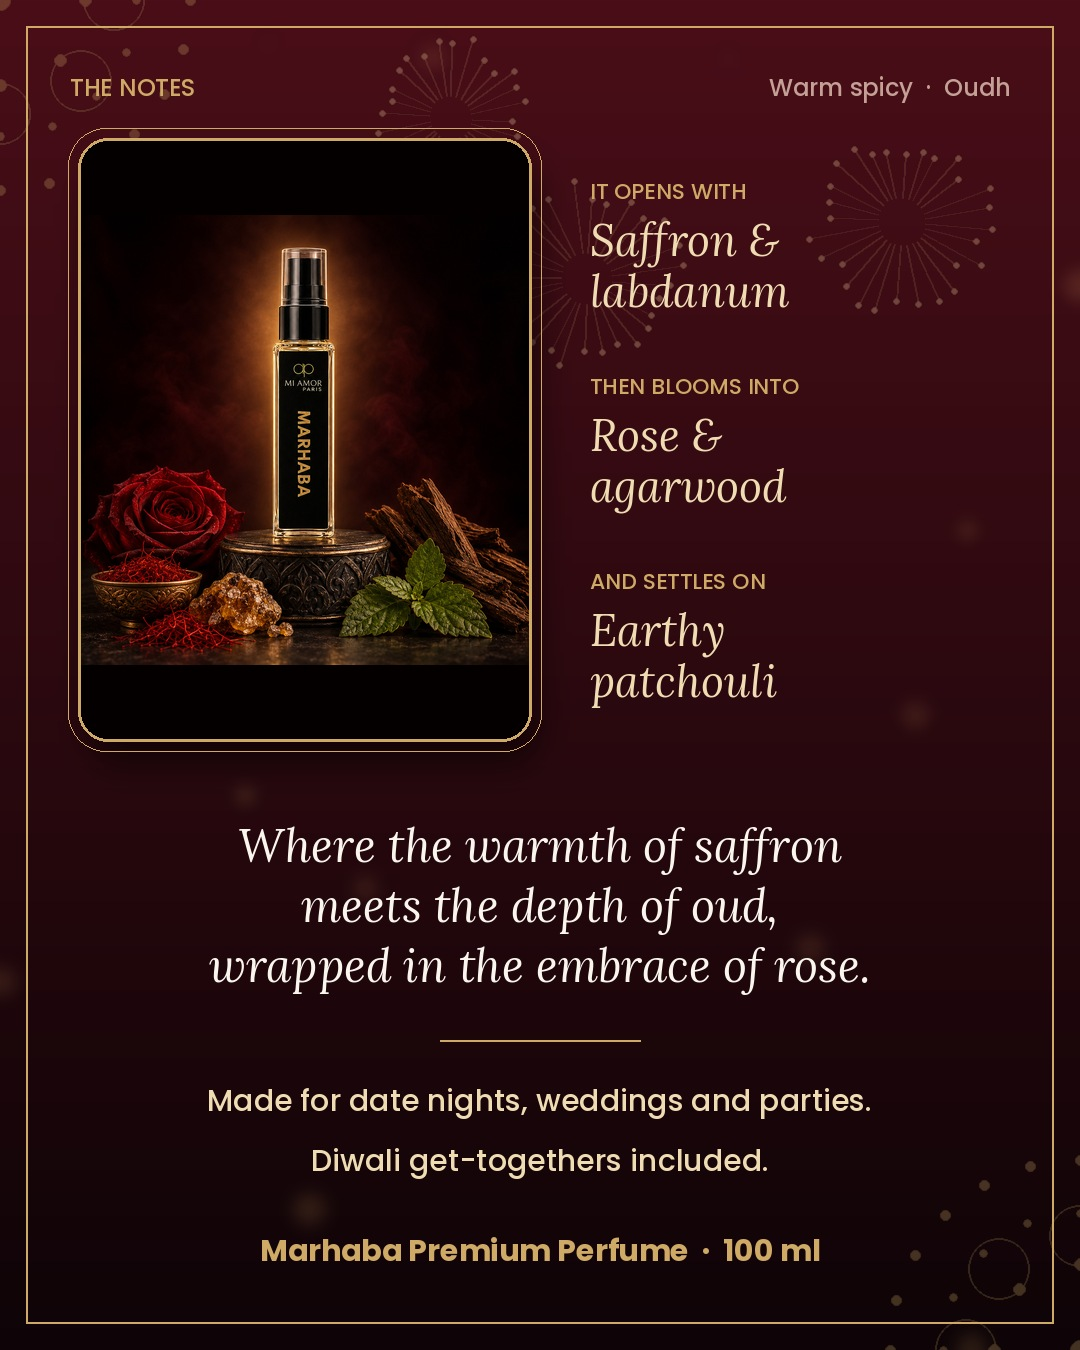
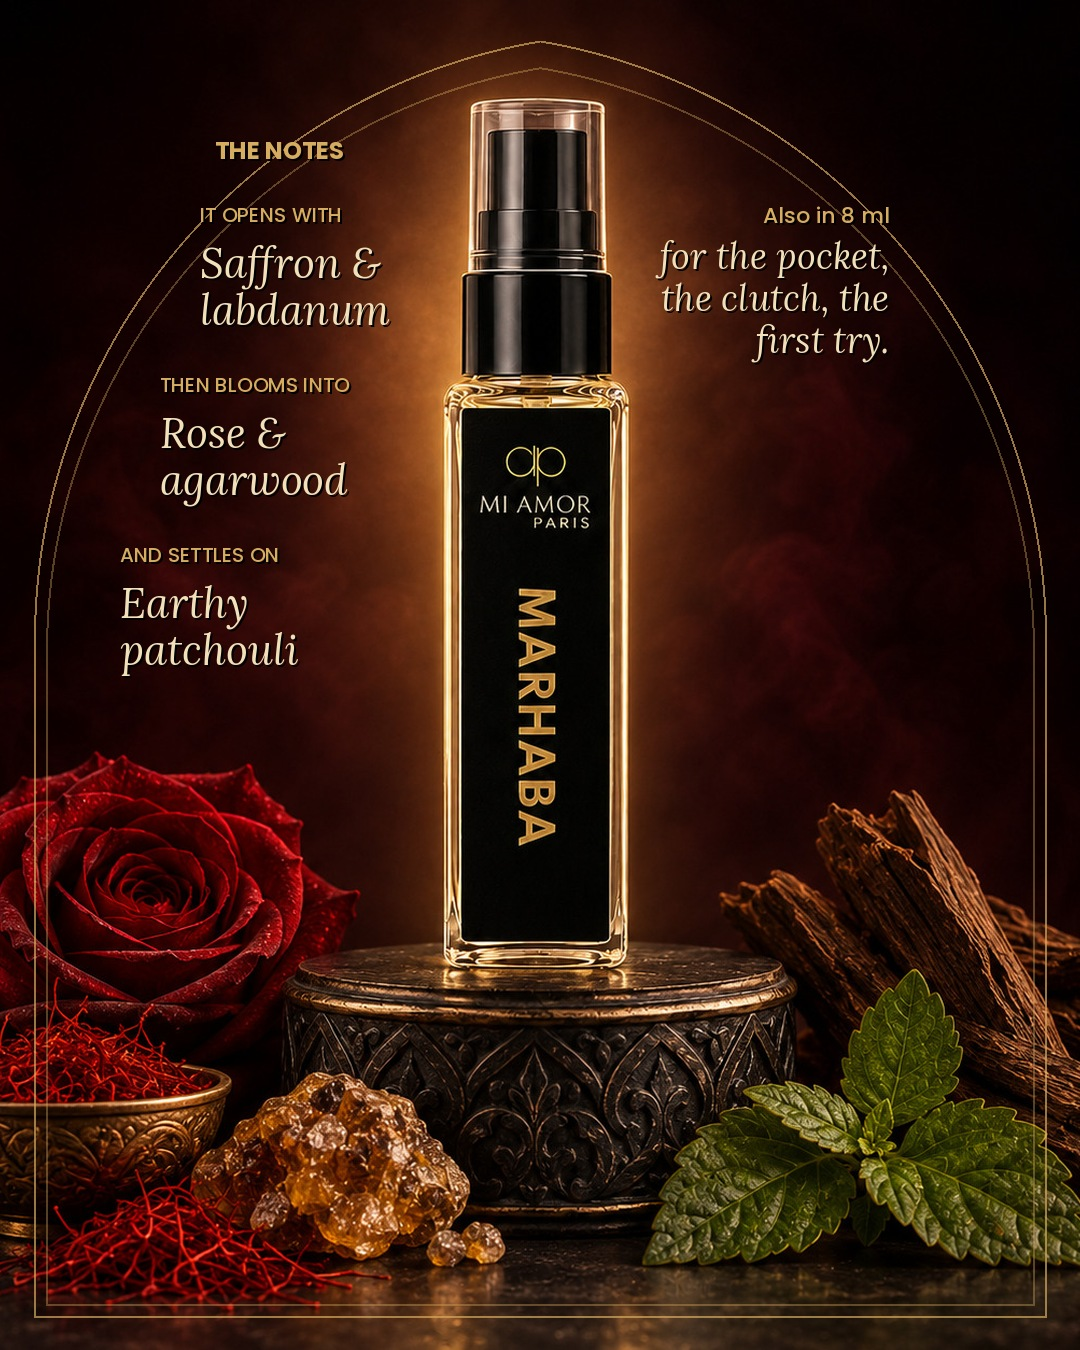
Marhaba post rebuilt: Arabian nights theme, unisex, no white backgrounds, adds Oudh moisturizer (Tannay, 3 Nov)
Claude-Session: https://claude.ai/code/session_01QfcZgk1TCxQfFsu6yjKqLd

diff --git a/posts/2026-11-03-marhaba-edit/build.py b/posts/2026-11-03-marhaba-edit/build.py
@@ -1,134 +1,117 @@
-"""3 Nov 2026 feed: "Marhaba, the Diwali-party scent for him" (perfume 100 ml, Oudh shower gel, 8 ml mini).
-Look: deep wine-to-black, gold dot-rangoli medallions in the corners and soft gold firework bursts
-(new vs. the emerald jaali of 2 Nov). Real Drive photos, shown whole inside gold-framed panels.
-Notes and benefit words come from the Shopify listings. Prices removed 3 Nov (Tannay): last slide says "DM for prices & Diwali deals"."""
-import math, random
-from PIL import Image, ImageDraw, ImageFont, ImageFilter
-W, H = 1080, 1350
+"""3 Nov 2026 feed (rebuilt per Tannay): "Marhaba · Arabian nights, bottled". Unisex, Arabian-nights mood, no prices,
+no white-background shots. Set = the real Marhaba photoshoot (rose, saffron, labdanum resin, agarwood, patchouli leaf,
+engraved brass podium; mini_life_1.jpg). The 8 ml is taken off the podium (work/make_scene.py) and the real 100 ml bottle,
+box, Oudh cream and 8 ml are cut from their studio shots (work/cutout.py) and stood on it with backlight, contact shadow
+and brass reflection. Shower gel uses its own real dark lifestyle photo. Last slide: DM for prices & Diwali deals."""
+import numpy as np
+from PIL import Image, ImageDraw, ImageFont, ImageFilter, ImageOps
+W, H = 1080, 1350; BASE = 966
 def lora(s, it=False): return ImageFont.truetype("/usr/share/fonts/truetype/google-fonts/Lora-" + ("Italic-Variable" if it else "Variable") + ".ttf", s)
 def pop(s, w="Medium"): return ImageFont.truetype(f"/usr/share/fonts/truetype/google-fonts/Poppins-{w}.ttf", s)
-WINE = (74, 14, 24); BLK = (14, 4, 7); GOLD = (206, 170, 102); CHAMP = (240, 220, 178); IVORY = (250, 246, 238); MUTE = (196, 160, 150)
+GOLD = (214, 172, 96); CHAMP = (242, 224, 186); MUTE = (205, 170, 140)
 LOGO = Image.open("../../assets/cutouts/logo_gold.png").convert("RGBA")
-P_PERF, W_PERF = "₹1,499", "₹2,999"
-P_GEL, W_GEL = "₹749", "₹1,499"
-P_MINI, W_MINI = "₹199", "₹399"
 
-def c(d, y, s, f, col): d.text((W / 2, y), s, font=f, fill=col, anchor="mm")
+def scene(mirror=False):
+    s = Image.open("work/scene_clean.png").convert("RGB")
+    if mirror: s = ImageOps.mirror(s)
+    return s.resize((1350, 1350), Image.LANCZOS).crop((135, 0, 1215, 1350)).convert("RGBA")
 
-def logo(im, w, y, col=GOLD):
-    l = LOGO.resize((w, int(LOGO.height * w / LOGO.width)), Image.LANCZOS)
-    a = l.split()[3].point(lambda v: 0 if v < 90 else min(255, int((v - 90) * 2.2))); s = Image.new("RGBA", l.size, col + (0,)); s.putalpha(a)
+def backlight(im, cx, cy, rx, ry, a=150):
+    g = Image.new("RGBA", (W, H)); d = ImageDraw.Draw(g)
+    d.ellipse((cx - rx, cy - ry, cx + rx, cy + ry), fill=(255, 150, 60, a))
+    im.alpha_composite(g.filter(ImageFilter.GaussianBlur(rx * 0.55)))
+
+def prep(path, h, glass):
+    p = Image.open(path).convert("RGBA"); w = int(p.width * h / p.height); p = p.resize((w, h), Image.LANCZOS)
+    a = np.array(p).astype(np.float32); a[..., :3] *= 0.86; a[..., 0] *= 1.06; a[..., 2] *= 0.86   # warm, dimmer set light
+    from scipy import ndimage
+    a[..., 3] = ndimage.grey_erosion(a[..., 3], size=(3, 3)); a[h - 3:, :, 3] = 0
+    if glass:  # smooth the glass silhouette (studio JPEG edges are ragged)
+        import cv2
+        m = cv2.GaussianBlur((a[..., 3] > 128).astype(np.float32), (0, 0), 3.5) > 0.5
+        m = ndimage.binary_erosion(m, iterations=2); a[..., 3] = cv2.GaussianBlur(m.astype(np.float32), (0, 0), 1.0) * 255
+    return a, w, glass
+
+def place(im, path, cx, h, base=BASE, glass=False):
+    a, w, glass = prep(path, h, glass); x, y = int(cx - w / 2), base - h
+    sh = Image.new("RGBA", (W, H)); d = ImageDraw.Draw(sh)
+    d.ellipse((x - 6, base - 12, x + w + 6, base + 10), fill=(0, 0, 0, 170)); d.ellipse((x - 30, base - 22, x + w + 30, base + 18), fill=(0, 0, 0, 70))
+    im.alpha_composite(sh.filter(ImageFilter.GaussianBlur(8)))
+    r = a[::-1][:40].copy(); r[..., 3] *= np.linspace(0.18, 0, 40)[:, None]   # faint reflection on the polished brass top
+    im.alpha_composite(Image.fromarray(r.astype(np.uint8), "RGBA").filter(ImageFilter.GaussianBlur(1.5)), (x, base))
+    if glass:   # clear glass: multiply the near-white glass with the set behind it
+        import cv2
+        bg = np.array(im.crop((x, y, x + w, y + h))).astype(np.float32); g = cv2.GaussianBlur(a[..., :3] / 255, (0, 0), 2.5)
+        bg[..., :3] = cv2.GaussianBlur(bg[..., :3], (0, 0), 3)
+        sat = g.max(2) - g.min(2); wgt = (np.clip((g.mean(2) - 0.50) / 0.25, 0, 1) * np.clip((0.24 - sat) / 0.10, 0, 1))[..., None]
+        a[..., :3] = a[..., :3] * (1 - wgt) + bg[..., :3] * np.clip(g * 1.25, 0, 1.15) * wgt
+    im.alpha_composite(Image.fromarray(np.clip(a, 0, 255).astype(np.uint8), "RGBA"), (x, y))
+
+def arch(im, inset=34):
+    """thin double gold pointed (two-centred) arch frame, Arabian architecture, on every slide"""
+    import math
+    o = Image.new("RGBA", (W, H)); d = ImageDraw.Draw(o)
+    for k, al in [(0, 175), (12, 95)]:
+        l, r, b = inset + k, W - inset - k, H - inset - k; w = r - l; R = 0.6 * w; spring = 640 + k
+        h = math.sqrt(R * R - (R - w / 2) ** 2); ang = math.degrees(math.atan2(-h, -(R - w / 2))) % 360
+        d.arc((l, spring - R, l + 2 * R, spring + R), 180, ang, fill=GOLD + (al,), width=2)
+        d.arc((r - 2 * R, spring - R, r, spring + R), 540 - ang, 360, fill=GOLD + (al,), width=2)
+        d.line((l, spring, l, b, r, b, r, spring), fill=GOLD + (al,), width=2)
+    im.alpha_composite(o)
+
+def c(d, y, s, f, col, x=W / 2, anchor="mm"):
+    d.text((x + 2, y + 2), s, font=f, fill=(0, 0, 0, 160), anchor=anchor); d.text((x, y), s, font=f, fill=col, anchor=anchor)
+def logo(im, w, y):
+    l = LOGO.resize((w, int(LOGO.height * w / LOGO.width)), Image.LANCZOS); s = Image.new("RGBA", l.size, GOLD + (0,)); s.putalpha(l.split()[3])
     im.alpha_composite(s, ((W - w) // 2, y))
-
-def rangoli(d, cx, cy, r, a):
-    for ring, n, dot in [(r, 24, 5), (r * 0.72, 16, 4), (r * 0.45, 8, 6)]:
-        for k in range(n):
-            t = 2 * math.pi * k / n; x, y = cx + ring * math.cos(t), cy + ring * math.sin(t)
-            d.ellipse((x - dot, y - dot, x + dot, y + dot), fill=GOLD + (a,))
-    for k in range(8):  # petals
-        t = 2 * math.pi * k / 8; x, y = cx + r * 0.6 * math.cos(t), cy + r * 0.6 * math.sin(t)
-        d.ellipse((x - r * 0.16, y - r * 0.16, x + r * 0.16, y + r * 0.16), outline=GOLD + (a,), width=2)
-    d.ellipse((cx - 10, cy - 10, cx + 10, cy + 10), fill=GOLD + (a,))
-
-def burst(d, cx, cy, r, a, rnd):
-    for k in range(28):
-        t = 2 * math.pi * k / 28 + rnd.random() * 0.1; r0 = r * 0.25; r1 = r * (0.7 + rnd.random() * 0.3)
-        d.line((cx + r0 * math.cos(t), cy + r0 * math.sin(t), cx + r1 * math.cos(t), cy + r1 * math.sin(t)), fill=(255, 210, 140, a), width=2)
-        d.ellipse((cx + r1 * math.cos(t) - 3, cy + r1 * math.sin(t) - 3, cx + r1 * math.cos(t) + 3, cy + r1 * math.sin(t) + 3), fill=(255, 225, 170, a + 30))
-
-def base(seed):
-    im = Image.new("RGBA", (W, H)); d = ImageDraw.Draw(im)
-    for y in range(H):
-        for_t = y / H
-        d.line((0, y, W, y), fill=tuple(int(WINE[i] * (1 - for_t) + BLK[i] * for_t) for i in range(3)) + (255,))
-    rnd = random.Random(seed); fx = Image.new("RGBA", (W, H)); fd = ImageDraw.Draw(fx)
-    for cx, cy in [(0, 0), (W, H)]: rangoli(fd, cx, cy, 190, 70)
-    for _ in range(3): burst(fd, rnd.randint(120, W - 120), rnd.randint(80, 300), rnd.randint(60, 110), 40, rnd)
-    im.alpha_composite(fx.filter(ImageFilter.GaussianBlur(0.6)))
-    glow = Image.new("RGBA", (W, H)); gd = ImageDraw.Draw(glow)
-    for _ in range(16):
-        x, y, r = rnd.randint(0, W), rnd.randint(0, H), rnd.randint(8, 24)
-        gd.ellipse((x - r, y - r, x + r, y + r), fill=(255, 190, 110, rnd.randint(25, 60)))
-    im.alpha_composite(glow.filter(ImageFilter.GaussianBlur(10)))
-    d = ImageDraw.Draw(im); d.rectangle((26, 26, W - 27, H - 27), outline=GOLD + (160,), width=2)
-    return im
-
-def panel(im, photo, x, y, w, h, bg=None):
-    """whole photo fitted (contain) into a rounded gold-framed panel; empty space takes the photo's own corner colour."""
-    sh = Image.new("RGBA", (W, H)); ImageDraw.Draw(sh).rounded_rectangle((x + 8, y + 22, x + w + 8, y + h + 22), 30, fill=(0, 0, 0, 140))
-    im.alpha_composite(sh.filter(ImageFilter.GaussianBlur(16)))
-    p = Image.open(photo).convert("RGB"); s = min(w / p.width, h / p.height); p = p.resize((int(p.width * s), int(p.height * s)), Image.LANCZOS)
-    fill = bg or p.getpixel((4, 4)); pn = Image.new("RGB", (w, h), fill); pn.paste(p, ((w - p.width) // 2, (h - p.height) // 2))
-    m = Image.new("L", (w, h), 0); ImageDraw.Draw(m).rounded_rectangle((0, 0, w - 1, h - 1), 28, fill=255)
-    im.paste(pn, (x, y), m); d = ImageDraw.Draw(im)
-    d.rounded_rectangle((x - 2, y - 2, x + w + 1, y + h + 1), 30, outline=GOLD, width=3)
-    d.rounded_rectangle((x - 12, y - 12, x + w + 11, y + h + 11), 38, outline=GOLD + (110,), width=1)
-
-def price(d, y, now, was):
-    f1, f2 = pop(44, "Bold"), pop(30); a = d.textlength(now, font=f1); b = d.textlength(f"was {was}", font=f2); x = (W - a - 24 - b) / 2
-    d.text((x, y), now, font=f1, fill=GOLD, anchor="lm"); d.text((x + a + 24, y + 4), f"was {was}", font=f2, fill=MUTE, anchor="lm")
-    d.line((x + a + 24 + d.textlength("was ", font=f2), y + 6, x + a + 24 + b, y + 6), fill=MUTE, width=2)
+def bottom_shade(im, hgt=260, a=200):
+    v = Image.new("RGBA", (W, hgt)); vd = ImageDraw.Draw(v)
+    for y in range(hgt): vd.line((0, y, W, y), fill=(8, 3, 2, int(a * (y / hgt) ** 1.4)))
+    im.alpha_composite(v, (0, H - hgt))
 
 out = []
-# 1 cover: perfume + box, whole
-im = base(3); logo(im, 92, 62); d = ImageDraw.Draw(im)
-c(d, 200, "Marhaba", lora(92, True), CHAMP)
-c(d, 280, "The Diwali-party scent for him", lora(40), IVORY)
-panel(im, "perfume_main.jpg", 190, 350, 700, 700); d = ImageDraw.Draw(im)
-c(d, 1105, "MARHABA PREMIUM PERFUME FOR MEN · 100 ML", pop(27, "Medium"), GOLD)
-c(d, 1200, "Swipe for the full edit  >>", pop(28), CHAMP); out.append(im)
+# 1 cover: 100 ml bottle in front of its box on the brass podium
+im = scene(); backlight(im, 540, 640, 260, 330)
+place(im, "work/box.png", 652, 500, BASE - 10); place(im, "work/perfume.png", 468, 470, BASE + 4, glass=True)
+arch(im); d = ImageDraw.Draw(im); logo(im, 64, 70)
+c(d, 225, "Marhaba", lora(118, True), CHAMP); c(d, 310, "Arabian nights, bottled", lora(42), CHAMP)
+c(d, 368, "UNISEX  ·  OUDH  ·  EXTRAIT DE PARFUM", pop(24, "Medium"), GOLD); out.append(im)
 
-# 2 notes journey (lifestyle photo with saffron & rose)
-im = base(7); d = ImageDraw.Draw(im)
-d.text((70, 70), "THE NOTES", font=pop(24), fill=GOLD); d.text((W - 70, 70), "Warm spicy  ·  Oudh", font=pop(24), fill=MUTE, anchor="ra")
-panel(im, "mini_life_1.jpg", 80, 140, 450, 600); d = ImageDraw.Draw(im)
-tx = 590
-for i, (lab, notes) in enumerate([("IT OPENS WITH", "Saffron &\nlabdanum"), ("THEN BLOOMS INTO", "Rose &\nagarwood"), ("AND SETTLES ON", "Earthy\npatchouli")]):
-    y = 175 + i * 195
-    d.text((tx, y), lab, font=pop(22, "Medium"), fill=GOLD)
-    d.multiline_text((tx, y + 36), notes, font=lora(44, True), fill=CHAMP, spacing=6)
-c(d, 845, "Where the warmth of saffron", lora(46, True), IVORY)
-c(d, 905, "meets the depth of oud,", lora(46, True), IVORY)
-c(d, 965, "wrapped in the embrace of rose.", lora(46, True), IVORY)
-d.line((440, 1040, 640, 1040), fill=GOLD, width=2)
-c(d, 1100, "Made for date nights, weddings and parties.", pop(30), CHAMP)
-c(d, 1160, "Diwali get-togethers included.", pop(30), CHAMP)
-c(d, 1250, "Marhaba Premium Perfume  ·  100 ml", pop(30, "Bold"), GOLD); out.append(im)
+# 2 the notes, on the untouched photoshoot frame (8 ml)
+im = Image.open("mini_life_1.jpg").convert("RGB").resize((1350, 1350), Image.LANCZOS).crop((135, 0, 1215, 1350)).convert("RGBA")
+arch(im); d = ImageDraw.Draw(im)
+c(d, 150, "THE NOTES", pop(24, "Bold"), GOLD, 215, "lm")
+for i, (lab, n) in enumerate([("IT OPENS WITH", "Saffron &\nlabdanum"), ("THEN BLOOMS INTO", "Rose &\nagarwood"), ("AND SETTLES ON", "Earthy\npatchouli")]):
+    y = 215 + i * 170; c(d, y, lab, pop(20, "Medium"), GOLD, 200 - 40 * i, "lm")
+    d.multiline_text((202 - 40 * i, y + 22), n, font=lora(42, True), fill=(0, 0, 0, 150), spacing=4); d.multiline_text((200 - 40 * i, y + 20), n, font=lora(42, True), fill=CHAMP, spacing=4)
+c(d, 215, "Also in 8 ml", pop(22, "Medium"), GOLD, W - 190, "rm"); c(d, 255, "for the pocket,", lora(36, True), CHAMP, W - 190, "rm"); c(d, 297, "the clutch, the", lora(36, True), CHAMP, W - 190, "rm"); c(d, 339, "first try.", lora(36, True), CHAMP, W - 190, "rm")
+out.append(im)
 
-# 3 shower gel
-im = base(11); d = ImageDraw.Draw(im)
-c(d, 105, "Start the evening in the shower", lora(50, True), CHAMP)
-panel(im, "bodywash_64.jpg", 300, 170, 480, 640); d = ImageDraw.Draw(im)
-c(d, 880, "Marhaba Oudh Shower Gel · 500 ml", lora(46), IVORY)
-c(d, 950, "Glycerin, shea butter and sodium hyaluronate", pop(28), CHAMP)
-c(d, 995, "for rich foam and soft, hydrated skin.", pop(28), CHAMP)
-c(d, 1060, "SOAP-FREE  ·  SULPHATE-FREE  ·  PARABEN-FREE", pop(24, "Medium"), GOLD)
-c(d, 1240, "The same warm oriental mood as the perfume.", pop(26), MUTE); out.append(im)
+# 3 shower gel: its own real dark lifestyle photo, on a blurred extension of itself (no flat panel)
+ph = Image.open("bodywash_64.jpg").convert("RGB")
+bg = ph.resize((1080, 1440)).crop((0, 45, 1080, 1395)).filter(ImageFilter.GaussianBlur(30)); bg = Image.blend(bg, Image.new("RGB", bg.size, (10, 3, 3)), 0.45).convert("RGBA")
+fg = ph.resize((int(1080 * 0.80), int(1440 * 0.80)), Image.LANCZOS).convert("RGBA")
+m = Image.new("L", fg.size, 0); ImageDraw.Draw(m).rectangle((40, 40, fg.width - 40, fg.height - 40), fill=255); fg.putalpha(m.filter(ImageFilter.GaussianBlur(30)))
+bg.alpha_composite(fg, ((W - fg.width) // 2, H - fg.height + 30)); im = bg; arch(im); d = ImageDraw.Draw(im)
+c(d, 120, "BEGIN IN THE SHOWER", pop(24, "Bold"), GOLD); c(d, 180, "Marhaba Oudh Shower Gel", lora(54, True), CHAMP)
+c(d, 232, "500 ml  ·  glycerin, shea butter & sodium hyaluronate", pop(22), MUTE); out.append(im)
 
-# 4 mini
-im = base(17); d = ImageDraw.Draw(im)
-c(d, 105, "One for his pocket", lora(56, True), CHAMP)
-panel(im, "mini_studio_11.jpg", 220, 175, 640, 640); d = ImageDraw.Draw(im)
-c(d, 890, "Marhaba Premium Perfume · 8 ml", lora(46), IVORY)
-c(d, 960, "Same saffron, rose and oudh, sized for", pop(28), CHAMP)
-c(d, 1005, "a long night out or a first try.", pop(28), CHAMP)
-c(d, 1200, "An easy add-on to any Diwali gift.", lora(36, True), MUTE); out.append(im)
+# 4 Oudh moisturizing cream on the (mirrored) set
+im = scene(mirror=True); backlight(im, 545, 640, 230, 330); place(im, "work/cream.png", 543, 650)
+arch(im); d = ImageDraw.Draw(im)
+c(d, 150, "THEN THE CREAM", pop(24, "Bold"), GOLD); c(d, 212, "Marhaba Oudh Moisturizer", lora(54, True), CHAMP)
+c(d, 264, "150 ml  ·  shea butter & glycerin  ·  face & body", pop(22), MUTE); out.append(im)
 
-# 5 CTA: all three thumbnails
-im = base(23); logo(im, 120, 80); d = ImageDraw.Draw(im)
-c(d, 290, "The Marhaba edit", lora(70, True), CHAMP)
-c(d, 360, "Pick one, or gift him all three.", pop(30), IVORY)
-for (ph, x) in [("perfume_main.jpg", 70), ("bodywash_64.jpg", 400), ("mini_studio_11.jpg", 730)]:
-    panel(im, ph, x, 440, 280, 373)
-d = ImageDraw.Draw(im)
-for (t, x) in [("Perfume 100 ml", 210), ("Shower gel 500 ml", 540), ("Perfume 8 ml", 870)]:
-    d.text((x, 865), t, font=pop(27), fill=IVORY, anchor="mm")
-c(d, 960, "DM for prices & Diwali deals", pop(44, "Bold"), GOLD)
-d.line((390, 1035, 690, 1035), fill=GOLD, width=2)
-c(d, 1110, "Shop from the link in our bio", pop(34, "Medium"), IVORY)
-c(d, 1165, "or visit us at O-17, Lajpat Nagar-II, New Delhi", pop(27), CHAMP); out.append(im)
+# 5 the family on the podium + CTA
+im = scene(); backlight(im, 540, 680, 300, 300)
+place(im, "work/cream.png", 372, 560, BASE - 14); place(im, "work/mini.png", 716, 330, BASE - 8, glass=True); place(im, "work/perfume.png", 540, 430, BASE + 6, glass=True)
+bottom_shade(im, 330, 235); arch(im); d = ImageDraw.Draw(im)
+c(d, 170, "Arabian nights,", lora(66, True), CHAMP); c(d, 245, "every night.", lora(66, True), CHAMP)
+c(d, 310, "PERFUME  ·  MOISTURIZER  ·  SHOWER GEL  ·  8 ML", pop(21, "Medium"), GOLD)
+c(d, 1196, "DM for prices & Diwali deals", pop(40, "Bold"), CHAMP)
+c(d, 1250, "link in bio  ·  O-17, Lajpat Nagar-II, New Delhi", pop(24), MUTE); out.append(im)
 
-for n, im in enumerate(out): im.convert("RGB").save(f"slide_{n + 1:02d}.jpg", quality=93)
-sh = Image.new("RGB", (5 * 300, 375), "white")
-for n, im in enumerate(out): sh.paste(im.convert("RGB").resize((300, 375)), (n * 300, 0))
-sh.save("csheet.jpg"); print(len(out))
+for i, s in enumerate(out, 1): s.convert("RGB").save(f"slide_{i:02d}.jpg", quality=93)
+sheet = Image.new("RGB", (5 * 432 + 60, 560), (20, 10, 8))
+for i, s in enumerate(out): sheet.paste(s.convert("RGB").resize((432, 540)), (10 + i * 442, 10))
+sheet.save("csheet.jpg", quality=88); print("ok")

diff --git a/posts/2026-11-03-marhaba-edit/work/cutout.py b/posts/2026-11-03-marhaba-edit/work/cutout.py
@@ -1,0 +1,27 @@
+"""Cut real products out of white studio shots (no AI): flood from white edges, drop grey floor shadow, smooth edge."""
+import sys, numpy as np, cv2
+from PIL import Image
+from scipy import ndimage
+def cut(src, dst, crop=None, thr=6, shadow_from=0.86):
+    im = Image.open(src).convert("RGB")
+    if crop: W, H = im.size; im = im.crop(tuple(int(v * s) for v, s in zip(crop, (W, H, W, H))))
+    im.thumbnail((1800, 1800), Image.LANCZOS); a = np.array(im).astype(int)
+    d = (255 - a).max(2); sat = a.max(2) - a.min(2); fg = d > thr
+    lab, n = ndimage.label(fg); s = ndimage.sum(fg, lab, range(1, n + 1)); fg = lab == (np.argmax(s) + 1)
+    ys, xs = np.where(fg); top, bot = ys.min(), ys.max(); h = bot - top
+    r0, r1 = top + int(h * (shadow_from - 0.06)), top + int(h * shadow_from); cols = np.where(fg[r0:r1].any(0))[0]
+    b0 = top + int(h * shadow_from); fg[b0:, :cols.min()] = False; fg[b0:, cols.max() + 1:] = False
+    g = (sat < 10) & (d < 110); fg[b0:] &= ~g[b0:]
+    for y in range(b0, bot + 1):
+        xs_ = np.where(fg[y])[0]
+        if len(xs_) > 20: fg[y, xs_.min():xs_.max() + 1] = True
+        else: fg[y] = False
+    fg = ndimage.binary_closing(fg, iterations=3); fg = ndimage.binary_fill_holes(fg)
+    fg = cv2.GaussianBlur(fg.astype(np.float32), (0, 0), 2.0) > 0.5
+    al = cv2.GaussianBlur(fg.astype(np.float32), (0, 0), 1.0)
+    ys, xs = np.where(al > 0.02); out = np.dstack([a.astype(np.uint8), (al * 255).astype(np.uint8)])[ys.min():ys.max() + 1, xs.min():xs.max() + 1]
+    Image.fromarray(out, "RGBA").save(dst); print(dst, out.shape)
+cut("cream_front.jpg", "work/cream.png")
+cut("perfume_main.jpg", "work/perfume.png", crop=(0, 0, 0.46, 1), thr=10)
+cut("perfume_main.jpg", "work/box.png", crop=(0.46, 0, 1, 1), thr=10)
+cut("mini_studio_11.jpg", "work/mini.png", crop=(0, 0, 0.5, 1), thr=10)

diff --git a/posts/2026-11-03-marhaba-edit/work/make_scene.py b/posts/2026-11-03-marhaba-edit/work/make_scene.py
@@ -1,0 +1,26 @@
+"""Take the 8 ml bottle (and its tight halo) off the brass podium in the real Marhaba set (mini_life_1.jpg).
+A soft backlight is added again per slide behind whatever product stands there."""
+import numpy as np, cv2
+from PIL import Image
+src = np.array(Image.open("mini_life_1.jpg").convert("RGB")).astype(np.float32)
+a = src.copy(); out = a.copy()
+def hfill(img, x0, x1, y0, y1, sy):
+    L = img[y0:y1, x0 - 6:x0].mean(1); R = img[y0:y1, x1:x1 + 6].mean(1); t = np.linspace(0, 1, x1 - x0)[None, :, None]
+    return cv2.GaussianBlur(L[:, None, :] * (1 - t) + R[:, None, :] * t, (0, 0), sigmaX=2, sigmaY=sy)
+# wide soft fill of the halo above the podium
+X0, X1, Y0, Y1 = 430, 820, 40, 872
+full = a.copy(); full[Y0:Y1, X0:X1] = hfill(a, X0, X1, Y0, Y1, 12)
+m = np.zeros(a.shape[:2], np.float32); m[Y0 + 30:Y1, X0 + 30:X1 - 30] = 1; m = cv2.GaussianBlur(m, (0, 0), 28)[..., None]
+m[Y1 - 40:Y1 + 40] = np.maximum(m[Y1 - 40:Y1 + 40], 0)  # keep
+out = a * (1 - m) + full * m
+# podium top behind the bottle base
+x0, x1, y0, y1 = 526, 722, 860, 912
+full2 = out.copy(); full2[y0:y1, x0:x1] = hfill(out, x0, x1, y0, y1, 2)
+m2 = np.zeros(a.shape[:2], np.float32); m2[y0:y1, x0:x1] = 1; m2 = cv2.GaussianBlur(m2, (0, 0), 4)[..., None]
+out = out * (1 - m2) + full2 * m2
+# narrow strip between halo fill and podium (bottle body rows 80..860 inside x0..x1 must be fully gone)
+full3 = out.copy(); full3[80:860, x0:x1] = hfill(out, x0, x1, 80, 860, 10)
+m3 = np.zeros(a.shape[:2], np.float32); m3[80:860, x0:x1] = 1; m3 = cv2.GaussianBlur(m3, (0, 0), 10)[..., None]
+out = out * (1 - m3) + full3 * m3
+out += np.random.default_rng(2).normal(0, 1.5, a.shape)
+Image.fromarray(np.clip(out, 0, 255).astype(np.uint8)).save("work/scene_clean.png")

diff --git a/ops/PLAYBOOK.md b/ops/PLAYBOOK.md
@@ -121,6 +121,7 @@ Tannay: "1 post everyday for upcoming festivals … something new everyday, we h
 - **Never repeat a product set.** Before building, check `ops/feed_used.md` and pick products/combinations not used yet. Rotate categories: perfumes, body wash, moisturisers, handwash, 1-wick & 3-wick candles (zodiac / chakra / oud / numerology), diffuser oils + stands, incense (30 pcs: Bhakti, Gokul, Guggal, Himalayan Oudh, Moksh, Rajnigandha, Sanatan, Vanya, chakra lines), 8 ml testers, combos.
 - Real photos from Drive "All Products Images & Videos" (id 1wp0tAaKCqvVSeLH-emfuZxQwgDADXUYL). Category folders: Perfume 1_8ir-xnEDUvb6Rsk_olpzUx4SFt78NXi (several perfume subfolders are EMPTY), BODY WASH 18JQ7kFDX_PS3N5QzgQN6MfydKcw_mi9E, Moisturizer 1lOlCChtw5yD6fky7RCj6HcTQ3JTc4KVU, Handwash 1JmKgAYAJZMpiKuy20DjOUVUjoXZfmz73, 1 Wick Candles 1ACnwsiA2rRQJ51sblPny2qGiTrjWGZtD (Zodiac 1GsL78DVudpIJVGYA_VpNfXInWg7LrZYP, Chakra 1xDgfX0BTCtK6seKaOGixhm7GEfFD9fCp, Oud 120kFVcepxNBfEC5HFijr2vAbQDxJJgfA, Numerology 1NM3ocaiNN9rTabzUpK3xt4fykZzblypt), 3 Wick Candles 19FyJdCsFmPQ1dyZRqwBWx7JSimfntg7n, Diffuser Oils 1iSoOWGIYIWsODI9SJl9md1_Z5b3Miy8L, Diffuser Stand 10NJZh7yWUGRp-kzvNSn5bvMDhS4zpmJZ, 30 Pcs Incense 1k0s9T_tVXqovQ5MVHsvMQIRX2wIw9ccT, Incense Sticks 1mDqpVjHsL5RGnQeJqPIO8N9ug8PMWych, 8 Ml Testers 1UmKgMelKVhTZ00p9zlC3DIm4tdyZOtP4. Each product folder holds 1.jpg… (1000x1000 lifestyle/studio). Download with the Drive connector (download_file_content → base64).
 - **No prices in feed posts (Tannay, 3 Nov, "from now on"):** no ₹ amounts on slides or in captions. The LAST slide always says "DM for prices & Diwali deals" (or the current occasion's deals). Price checks still matter for DM/comment replies.
+- **Never use plain white-background product shots on a slide (Tannay, 3 Nov)**, not even inside a frame/panel. Theme the whole post to the scent (e.g. Marhaba = Arabian nights: dark, saffron, rose, oud, brass, pointed-arch frame). Don't call posts "the X edit". Marhaba is positioned as UNISEX. Include every product of the line that has photos (Tannay asked where the Marhaba moisturizer was).
 - **Backgrounds (Tannay, 3 Nov):** every product picture gets a nice background that looks REAL, not flat colour panels or obvious graphics. Best method: cut the real product out of its studio shot and stand it in a real photoshoot set (e.g. his Flora 5 8 ml set, see posts/2026-11-04-flora5-ritual/build.py) with contact shadow and matching warm light. His styled photoshoot images are real photos: don't mark them AI.
 - Show whole products only (no cropping of the product), live Shopify prices, no puja link for perfumes (candles/incense may appear in festive home settings), max 5 hashtags.
 

diff --git a/ops/feed_used.md b/ops/feed_used.md
@@ -9,4 +9,4 @@
 | 2026-10-31 | Diwali diffuser burner edit | Wooden aroma oil burners Gold / Rose Gold / Silver (₹799); mentions diffuser oils, Oudh fragrance oils, Premium Combo (no photos) |
 | 2026-10-30 | Notes-journey Reel (Tannay) | Love Is In The Air perfume |
 | 2026-11-02 | Six evenings to Diwali (Oudh candles) | 5 Oudh three-wick candles: Aleud, Abyad, Al Sandali, Alkhuzama, Zeenat e Oudh (₹1,749) |
-| 2026-11-03 | Marhaba edit for him (Diwali parties) | Marhaba perfume 100 ml + Marhaba Oudh shower gel 500 ml + Marhaba 8 ml mini |
+| 2026-11-03 | Marhaba: Arabian nights, bottled (unisex) | Marhaba perfume 100 ml + box, Marhaba Oudh shower gel 500 ml, Marhaba Oudh moisturizer 150 ml, Marhaba 8 ml |
